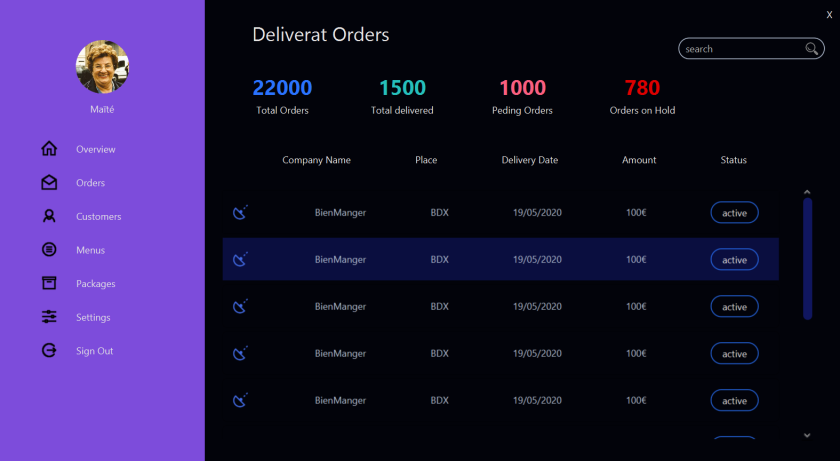
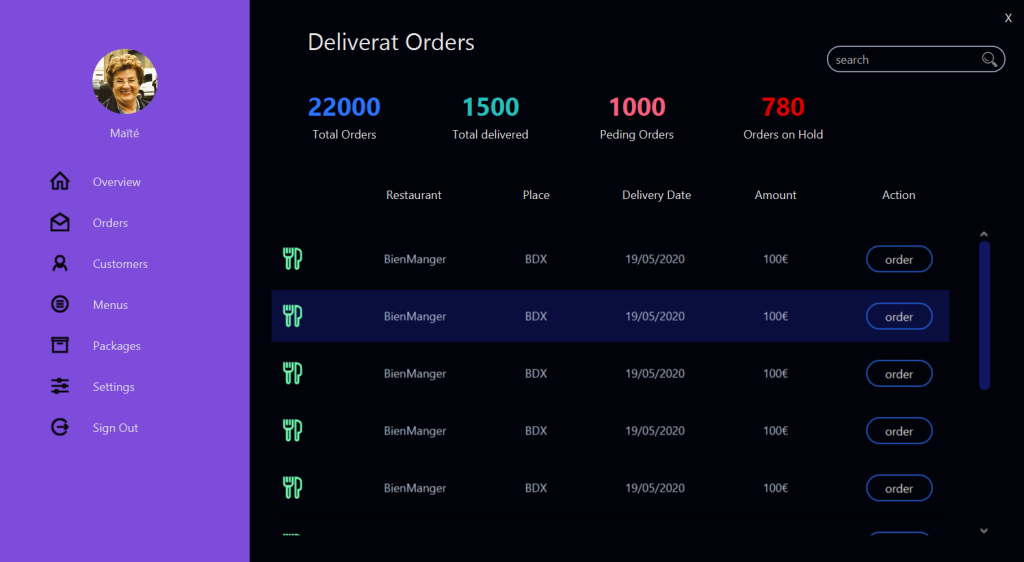
Add logback logger + some styling

diff --git a/src/main/java/design/task/BigFileTask.java b/src/main/java/design/task/BigFileTask.java
@@ -1,5 +1,8 @@
 package design.task;
 
+import org.slf4j.Logger;
+import org.slf4j.LoggerFactory;
+
 import javafx.concurrent.Task;
 
 /**
@@ -9,6 +12,8 @@ import javafx.concurrent.Task;
  *
  */
 public class BigFileTask extends Task<Integer> {
+	private static final Logger logger = LoggerFactory.getLogger(BigFileTask.class);
+	
 	private final int totalIterations;
 	
 	/**
@@ -21,6 +26,7 @@ public class BigFileTask extends Task<Integer> {
 	
 	@Override
 	protected Integer call() throws Exception {
+		logger.debug("task called");
         int iteration;
         // A Simple Loop With Progress Notification
         for (iteration = 0; iteration < totalIterations; iteration++) {
@@ -37,6 +43,7 @@ public class BigFileTask extends Task<Integer> {
     @Override protected void succeeded() {
         super.succeeded();
         updateMessage("Big File Processed!");
+        logger.debug("task succeeded");
     }
     
     @Override protected void failed() {

diff --git a/src/main/java/design/Item.java b/src/main/java/design/Item.java
@@ -12,7 +12,7 @@ import javafx.scene.control.Button;
 import javafx.scene.layout.HBox;
 
 public class Item implements Initializable {
-
+	
 	@FXML
 	private HBox itemC;
 	
@@ -33,9 +33,10 @@ public class Item implements Initializable {
     
     public void handleClick() {
     	BigFileTask bft = new BigFileTask(1000000);
-    	bft.setOnSucceeded(e -> 
-        	btnActive.setStyle("-fx-background-color : #00C781; -fx-border-color: transparent;")
-        );
+    	bft.setOnSucceeded(e -> {
+        	btnActive.setStyle("-fx-background-color : #6FFFB0; -fx-border-color: transparent; -fx-text-fill : #000000;");
+        	btnActive.setText("ordered");
+    	});
     	exec.execute(bft);
     }
 

diff --git a/src/main/java/design/Controller.java b/src/main/java/design/Controller.java
@@ -15,8 +15,13 @@ import java.io.IOException;
 import java.net.URL;
 import java.util.ResourceBundle;
 
+import org.slf4j.Logger;
+import org.slf4j.LoggerFactory;
+
 public class Controller implements Initializable {
 
+    private static final Logger logger = LoggerFactory.getLogger(Controller.class);
+	
     @FXML
     private VBox pnItems = null;
     @FXML
@@ -82,7 +87,7 @@ public class Controller implements Initializable {
                 
                 pnItems.getChildren().add(nodes[i]);
             } catch (IOException e) {
-                e.printStackTrace();
+                logger.error("Error creating items: {}", e);
             }
         }
 

diff --git a/README.md b/README.md
@@ -10,6 +10,7 @@ This project is :
 * a window close button
 * change color on hovering over the buttons
 * an example of a JavaFX background Task
+* logback logger
 
 ![](https://github.com/neokeld/JavaFXDesign/blob/master/readme-assets/1.png)
 
